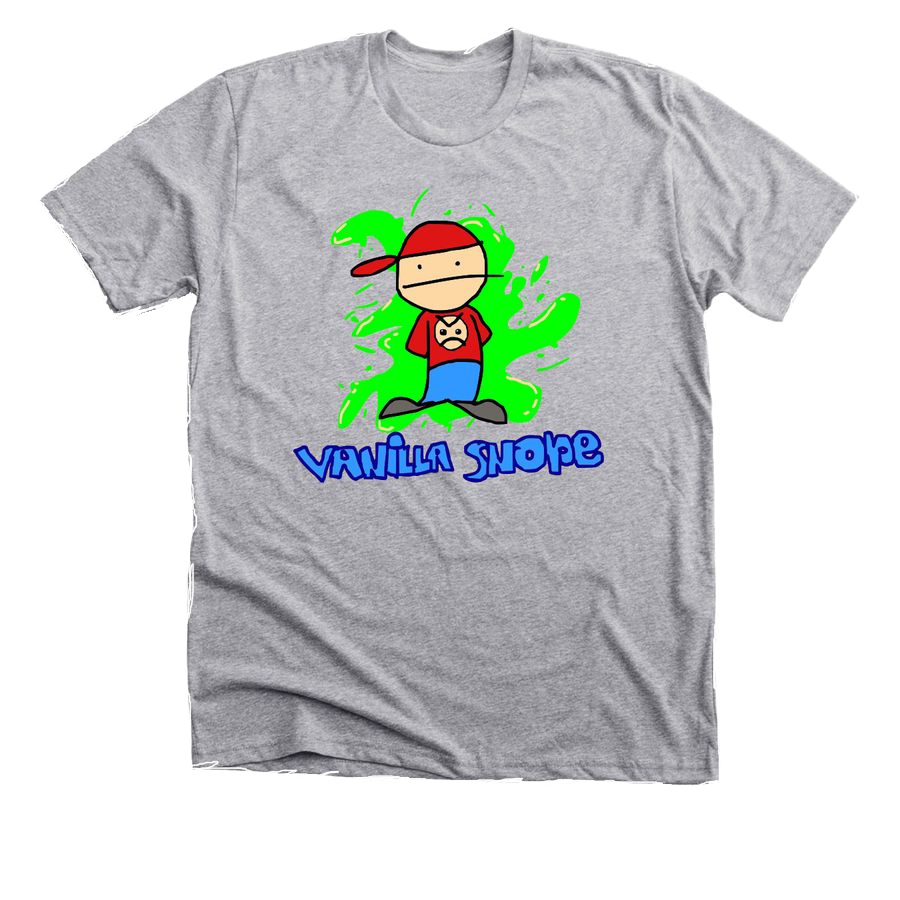
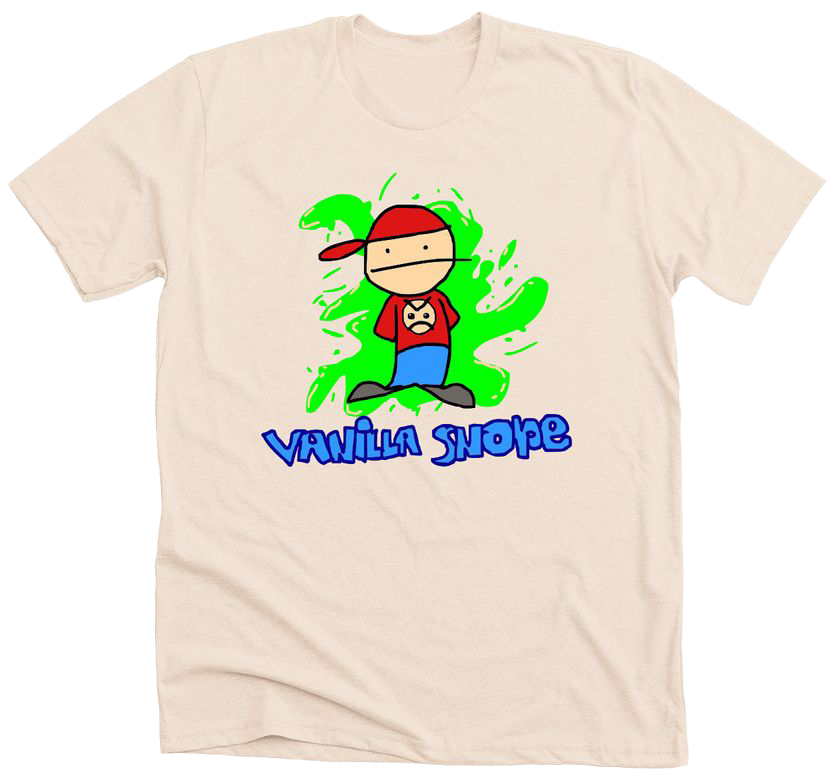
Add files via upload

diff --git a/index.html b/index.html
@@ -94,6 +94,9 @@
          <a href="https://vanillasnope.newgrounds.com/" target="_blank">
 <h3>VanillaSnope's Newgrounds Page</h3>
         </a>
+        <a  target="_blank" href="https://vanillasnope.newgrounds.com/">
+        <img src="newgroundslogo.png" width="200" height="200">
+    </a>
     </li>
         <li>
         <a href="https://vanillasnope.itch.io/" target="_blank">
@@ -105,19 +108,20 @@
     <img width= 640 height= 490 src="evensmallerBANNER01.png" style="position:relative; left:83; top:-9">
     <br>
     <div>
-    <h2 style="position:relative; left:289;">
-        Shirts and mugs!
+    <h1 style="position:relative; left:350;">
+        Shirts!
     </h2>
     </div>
     <br><br>
 <a target="_blank" href="https://www.bonfire.com/vanillasnope-logo-shirt/">
     <div style= "position:relative; left:154px; top:10px;">
-        <img width="470" height="490" src="shirt.png" target="_blank" href="https://www.bonfire.com/vanillasnope-logo-shirt/">
+        <img width="470" height="430" src="shirt.png" target="_blank" href="https://www.bonfire.com/vanillasnope-logo-shirt/">
     </div>
     </a>
-    <a target="_blank" href="https://www.bonfire.com/vanillasnope-mug/">
+    <br><br>
+    <a target="_blank" href="https://www.bonfire.com/34animator34/">
         <div style= "position:relative; left:220px; top:40px;">
-            <img width="370" height="350" src="mug.png" target="_blank" href="https://www.bonfire.com/vanillasnope-logo-shirt/">
+            <img width="370" height="350" src="Shirt2_image.png" target="_blank" href="https://www.bonfire.com/vanillasnope-logo-shirt/">
         </div>
         </a>
         <br><br><br><br>
